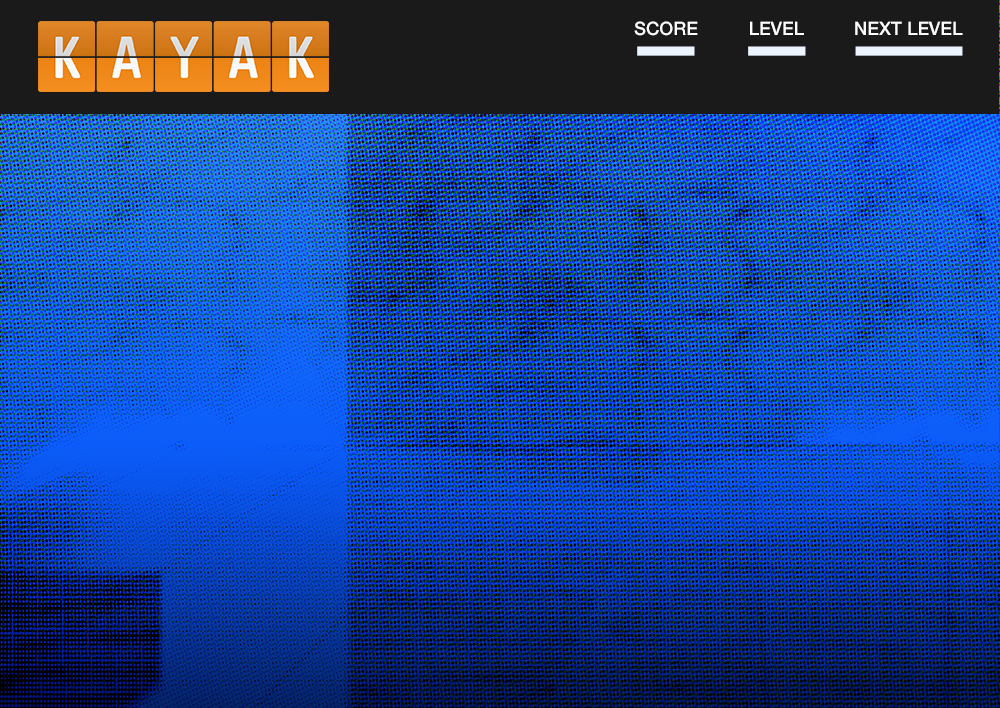
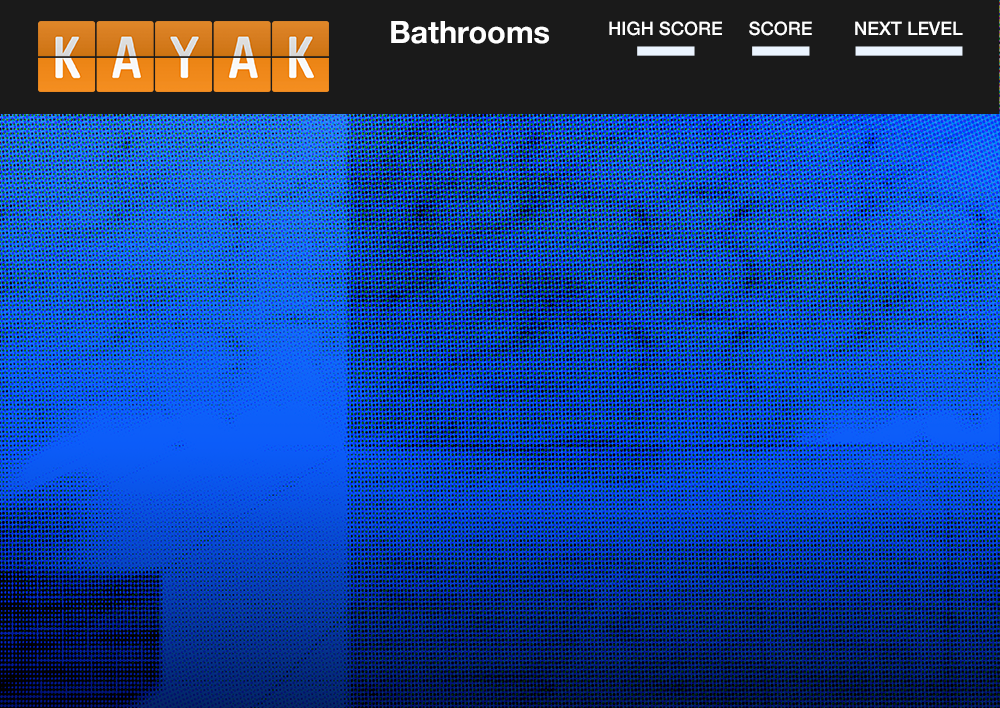
Added new bg, added high score, increase hitbox, fixed edge bounce issues with turn compensation, removed levels

Changed region(s): [[0.589, 0.0311, 0.806, 0.0621], [0.372, 0.0311, 0.558, 0.0621]]

diff --git a/js/game.js b/js/game.js
@@ -15,6 +15,7 @@ $(function(){
     var freq = [0.66, 1, 1.2, 1.3, 1.4, 1.5]; // Plungers per second for each level
     var fallSpeed = [4, 4, 5, 5, 6, 6, 7, 7]; // Plungers falling speed for each level
     var score = 0;
+    var highscore = 0;
     var maxHP = 5;
     var HP = maxHP;
     var level = 1;
@@ -53,6 +54,7 @@ $(function(){
 
     $(Sound).bind("loaded", function(){
         clearCanvas();
+        draw(true);
         ctx.save();
         ctx.font = "50px Helvetica";
         ctx.textAlign = "center";
@@ -126,15 +128,15 @@ $(function(){
         this.hole = function(){
             if(this.direction == 1){ //return hole location for right-facing toilet
                 return {
-                    x1 : 102,
-                    x2 : this.width - 20,
-                    y : 159
+                    x1 : 98,
+                    x2 : this.width - 16,
+                    y : 160
                 };
             } else { // return hole location for left-facing toilet
                 return {
-                    x1 : 20,
-                    x2 : this.width - 102,
-                    y : 159
+                    x1 : 16,
+                    x2 : this.width - 98,
+                    y : 160
                 };
             }
         }
@@ -155,11 +157,11 @@ $(function(){
             this.velX *= this.friction;
             this.x += this.velX;
 
-            if (this.x >= CANVAS_WIDTH - this.width + this.frontSpace) {
-                this.x = CANVAS_WIDTH - this.width + this.frontSpace;
+            if (this.x >= CANVAS_WIDTH - this.width + this.frontSpace && this.direction == 1) {
+                this.x = CANVAS_WIDTH - this.width + this.frontSpace - this.turnCompensation;
                 this.velX *= -this.bounce;
-            } else if (this.x <= -this.frontSpace) {
-                this.x = -this.frontSpace;
+            } else if (this.x <= -this.frontSpace && this.direction == -1) {
+                this.x = -this.frontSpace + this.turnCompensation;
                 this.velX *= -this.bounce;
             }
 
@@ -279,7 +281,8 @@ $(function(){
     }
 
     // Main draw function
-    function draw() {
+    function draw(ignoreCenterText) {
+        var ignoreCenterText = ignoreCenterText || false;
 
         // - BACKGROUND -
         clearCanvas();
@@ -294,7 +297,7 @@ $(function(){
         ctx.textBaseline = "middle";
 //        ctx.fillText("Score:", CANVAS_WIDTH - 170 , 40);
         ctx.font = "24pt Helvetica";
-        ctx.fillText("Health", 440 , 30);
+//        ctx.fillText("Health", 440 , 30);
         drawHP(392, 53, 32, 38, 7);
 
         // Level Display
@@ -305,12 +308,14 @@ $(function(){
 
         ctx.font = "26pt Helvetica";
         ctx.textAlign = "center";
-        ctx.fillText(score, 666 , 78);
-        ctx.fillText(level, 777 , 78);
-        ctx.fillText(Math.ceil(remainingTime), 910 , 78);
+        ctx.fillStyle = "#49a3fd";
+        ctx.fillText(highscore, 666 , 80);
+        ctx.fillText(score, 781 , 80);
+        ctx.fillText(Math.ceil(remainingTime), 910 , 80);
 
         //Draw pause instructions
         ctx.font = "10pt Helvetica";
+        ctx.fillStyle = "white";
         ctx.fillText("P: Pause/Resume", CANVAS_WIDTH - 100, CANVAS_HEIGHT - 30);
 
 
@@ -319,23 +324,21 @@ $(function(){
             plunger.draw();
         });
 
-        // end game if no more HP
-        if(HP <= 0)
-            end();
-
-        // pause game if paused
-        if(paused){
-            window.clearInterval(gameLoop);
-            var lastDisplayText = displayText;
-            displayText = "PAUSED";
-            centerText();
-        } else if(gameOver){ // End game if ended
-            window.clearInterval(gameLoop);
-            displayText = "GAME OVER";
-            centerText();
-            centerSubText("Press spacebar to play again.");
-        } else if(showCenterText){
-            centerText();
+        if(!ignoreCenterText){
+            // pause game if paused
+            if(paused){
+                window.clearInterval(gameLoop);
+                var lastDisplayText = displayText;
+                displayText = "PAUSED";
+                centerText();
+            } else if(gameOver){ // End game if ended
+                window.clearInterval(gameLoop);
+                displayText = "GAME OVER";
+                centerText();
+                centerSubText("Press spacebar to play again.");
+            } else if(showCenterText){
+                centerText();
+            }
         }
 
 
@@ -345,6 +348,11 @@ $(function(){
     function update() {
         counter++;
         remainingTime -= 1/FPS;
+
+
+        // end game if no more HP
+        if(HP <= 0)
+            end();
 
         if(remainingTime <= 0){
             remainingTime += TIME_PER_LEVEL;
@@ -378,7 +386,7 @@ $(function(){
 
     // detection for whether the item fell straight into the toilet
     function collides(t, item) {
-        var fallThreshold = 35; // height of the hitbox of the item falling into toilet
+        var fallThreshold = 50; // height of the hitbox of the item falling into toilet
         return t.x + t.hole().x1 < item.x &&
             t.x + t.hole().x2 > item.x + item.width &&
             t.y + t.hole().y < item.y + item.height &&
@@ -450,6 +458,8 @@ $(function(){
     // Game end
     function end(){
         gameOver = true;
+        gameGoing = false;
+        highscore = score;
         Sound.stopAll();
         Sound.play("gameover");
     }
@@ -512,7 +522,7 @@ $(function(){
     // Displays a new level indication
     function newLevel(){
         showCenterText = true;
-        displayText = "LEVEL "+ level;
+        displayText = "NEW LEVEL";
         setTimeout(function(){ //stop display of new level after 1.5 seconds
             showCenterText = false;
         }, 2000);
